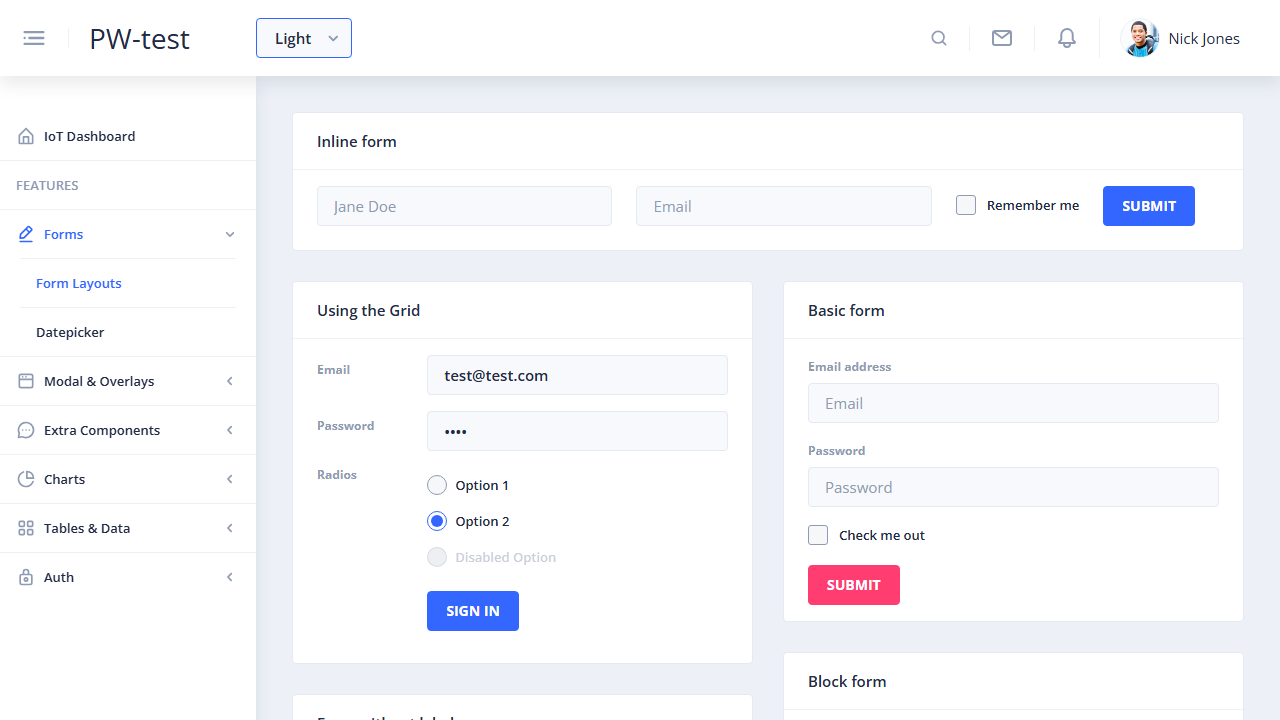
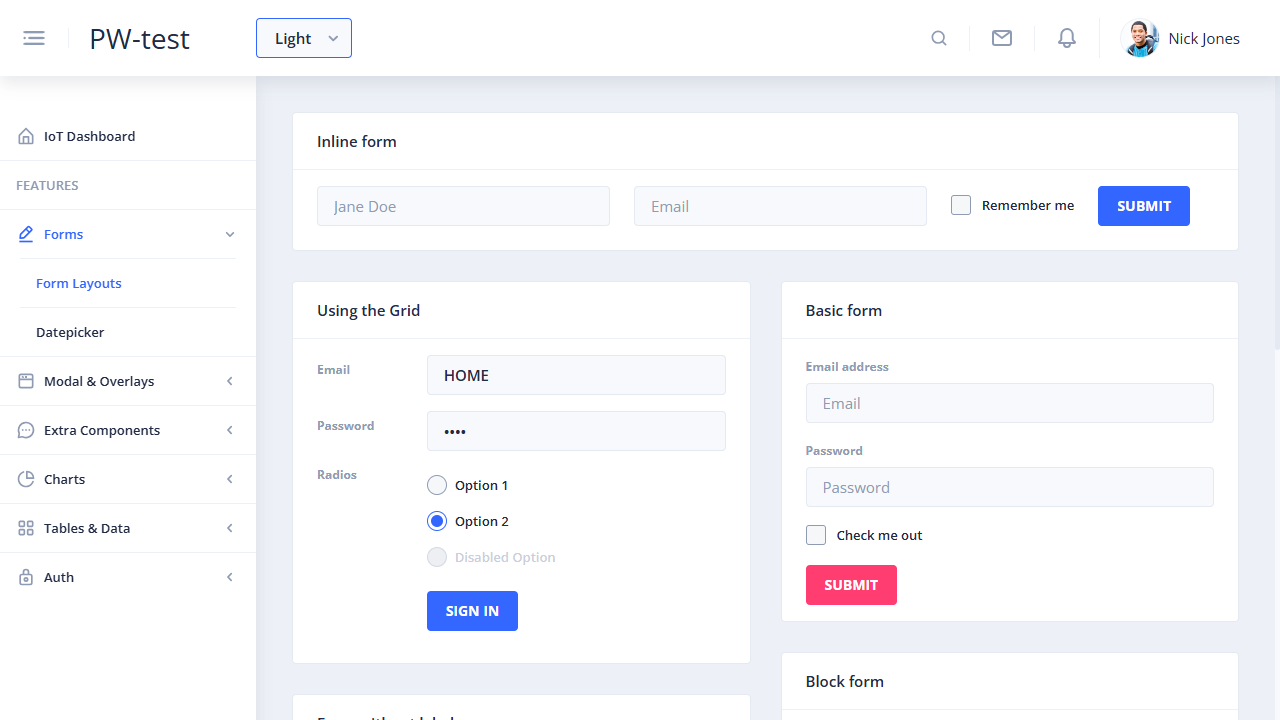
Environment Variables

diff --git a/playwright.config.ts b/playwright.config.ts
@@ -1,5 +1,6 @@
 /// <reference types="node" />
 import { defineConfig, devices } from '@playwright/test';
+import type { TestOptions } from './test-options';
 
 /**
  * Read environment variables from file.
@@ -8,20 +9,21 @@ import { defineConfig, devices } from '@playwright/test';
 // import dotenv from 'dotenv';
 // import path from 'path';
 // dotenv.config({ path: path.resolve(__dirname, '.env') });
+require('dotenv').config();
 
 /**
  * See https://playwright.dev/docs/test-configuration.
  */
-export default defineConfig({
+export default defineConfig<TestOptions>({
   //timeout: 10000,
   //globalTimeout: 60000,
   testDir: './tests',
   /* Run tests in files in parallel */
-  fullyParallel: true,
+  fullyParallel: false,
   /* Fail the build on CI if you accidentally left test.only in the source code. */
   forbidOnly: !!process.env.CI,
   /* Retry on CI only */
-  retries: process.env.CI ? 2 : 0,
+  retries: process.env.CI ? 2 : 1,
   /* Opt out of parallel tests on CI. */
   workers: process.env.CI ? 1 : undefined,
   /* Reporter to use. See https://playwright.dev/docs/test-reporters */
@@ -29,7 +31,11 @@ export default defineConfig({
   /* Shared settings for all the projects below. See https://playwright.dev/docs/api/class-testoptions. */
   use: {
     /* Base URL to use in actions like `await page.goto('')`. */
-    // baseURL: 'http://localhost:3000',
+    //baseURL: 'http://localhost:4200/',
+    globalsQaURL: 'https://www.globalsqa.com/demo-site/draganddrop/',
+    baseURL: process.env.DEV === '1' ? 'http://localhost:4201/'
+           : process.env.STAGING == '1' ? 'http://localhost:4202/'
+           : 'http://localhost:4200/',
 
     /* Collect trace when retrying the failed test. See https://playwright.dev/docs/trace-viewer */
     //actionTimeout: 5000,
@@ -45,6 +51,20 @@ export default defineConfig({
 
   /* Configure projects for major browsers */
   projects: [
+    {
+      name: 'dev',
+      use: { 
+        ...devices['Desktop Chrome'],
+        baseURL: 'http://localhost:4201/'
+      },
+    },
+    {
+      name: 'staging',
+      use: { 
+        ...devices['Desktop Chrome'],
+        baseURL: 'http://localhost:4202/'
+     },
+    },
     {
       name: 'chromium',
       use: { ...devices['Desktop Chrome'] },

diff --git a/tests/usePageObjects.spec.ts b/tests/usePageObjects.spec.ts
@@ -3,7 +3,7 @@ import { PageManager } from '../page-objects/pageManager'
 import { faker } from '@faker-js/faker'
 
 test.beforeEach(async ({ page }) => {
-  await page.goto('http://localhost:4200/')
+  await page.goto('/')
 })
 
 test('navigate to form page', async ({ page }) => {
@@ -21,7 +21,7 @@ test('parametrized methods', async ({ page }) => {
   const randomEmail = `${randomFullName.replace(' ', '')}${faker.number.int(1000)}@test.com`
 
   await pm.navigateTo().formLayoutsPage()
-  await pm.onFormLayoutsPage().submitUsingTheGridFormWithCredentialsAndSelectOption('test@test.com', 'test', 'Option 2')
+  await pm.onFormLayoutsPage().submitUsingTheGridFormWithCredentialsAndSelectOption(process.env.USERNAME!, process.env.PASSWORD!, 'Option 2')
   await page.screenshot({ path: 'screenshots/formLayoutsPage.png' });
   const buffer = await page.screenshot()
   console.log(buffer.toString('base64'))

diff --git a/tests/autoWaiting.spec.ts b/tests/autoWaiting.spec.ts
@@ -1,11 +1,12 @@
 import { test, expect } from '@playwright/test'
 
-test.beforeEach(async ({ page }) => {
-    await page.goto('http://uitestingplayground.com/ajax')
+test.beforeEach(async ({ page }, testInfo) => {
+    await page.goto(process.env.URL!)
     await page.getByText('Button Triggering AJAX Request').click();
+    testInfo.setTimeout(testInfo.timeout + 2000)
 })
 
-test('should wait for the AJAX request to complete', async ({ page }) => {
+test('auto waiting', async ({ page }) => {
     // Wait for the AJAX request to complete and the success message to appear
     //await expect(page.getByText('Data loaded with AJAX get request.')).toBeVisible();
 

diff --git a/tests/dragAndDropWithiFrame.spec.ts b/tests/dragAndDropWithiFrame.spec.ts
@@ -1,8 +1,9 @@
-import { test, expect } from '@playwright/test'
+import { expect } from '@playwright/test'
+import { test } from '../test-options'
 
-test('drag and drop with iFrame', async({page}) => {
+test('drag and drop with iFrame', async({page, globalsQaURL}) => {
     //Open page
-    await page.goto('https://www.globalsqa.com/demo-site/draganddrop/')
+    await page.goto(globalsQaURL)
 
     const frame = page.frameLocator('[rel-title="Photo Manager"] iframe')
     //Drag-and-Drop Automation - To perform a drag-and-drop action:

diff --git a/tests/firstTest.spec.ts b/tests/firstTest.spec.ts
@@ -2,7 +2,7 @@ import { test, expect } from '@playwright/test'
 //import { first } from 'rxjs-compat/operator/first';
 
 test.beforeEach(async ({ page }) => {
-  await page.goto('http://localhost:4200/')
+  await page.goto('/')
   await page.getByText('Forms').click();
   await page.getByText('Form Layouts').click();
 })

diff --git a/tests/uiComponents.spec.ts b/tests/uiComponents.spec.ts
@@ -2,7 +2,7 @@ import { test, expect } from '@playwright/test'
 //test.describe.configure({mode: 'parallel'})
 
 test.beforeEach(async ({ page }) => {
-  await page.goto('http://localhost:4200/')
+  await page.goto('/')
 })
 
 test.describe('Form Layouts page', () => {

diff --git a/test-options.ts b/test-options.ts
@@ -1,0 +1,9 @@
+import { test as base } from '@playwright/test'
+
+export type TestOptions = {
+    globalsQaURL: string
+}
+
+export const test = base.extend<TestOptions>({
+    globalsQaURL: ['', {option: true}]
+})

diff --git a/tests/testHooks.spec.ts b/tests/testHooks.spec.ts
@@ -1,7 +1,7 @@
 import { test } from '@playwright/test'
 
 test.beforeEach(async ({ page }) => {
-  await page.goto('http://localhost:4200/')
+  await page.goto('/')
 })
 
 test.describe.only('suite1', () => {
